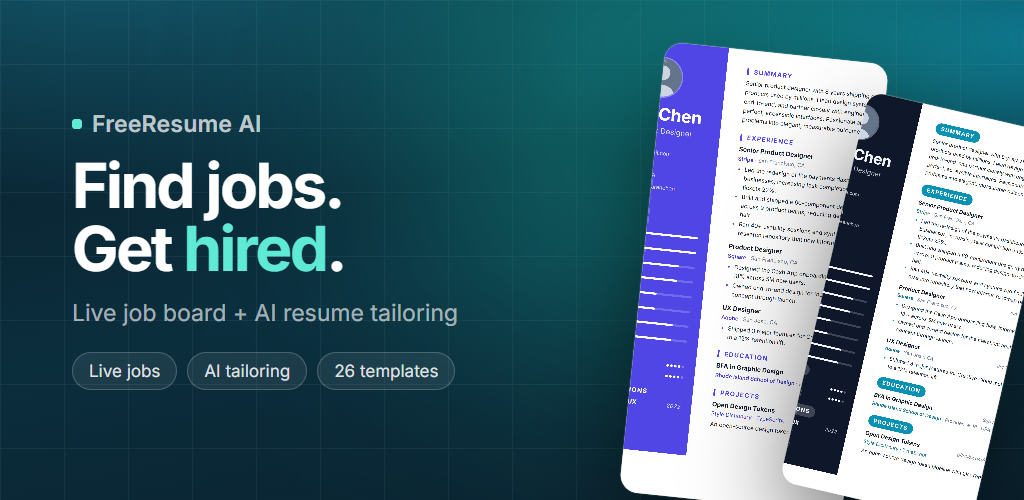
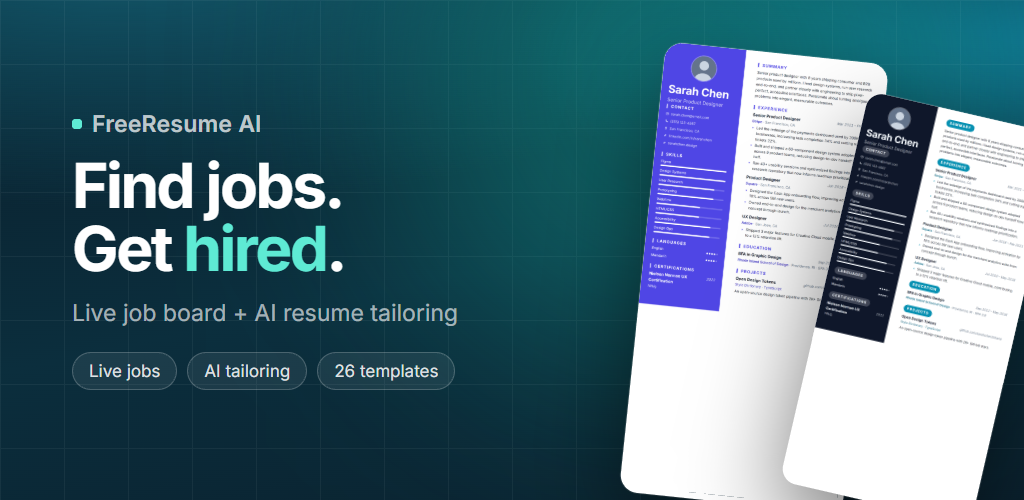
fix(templates,aso): languages collision in narrow columns + store image cropping
Templates: .rb-pairs used a hard `1fr 1fr` grid, which collapses inside any
narrow container — the 36% column of the two-column layouts (creative-bold,
designer-grid) ran the language into its proficiency ("MandarinProfessional").
Switch to repeat(auto-fit, minmax(150px,1fr)) so it drops to one column when
the container is narrow. Fixes every layout at once, superseding the
sidebar-only patch.

Store images:
- Resume renders were forced to fixed heights alongside object-fit:cover, so
  a 0.773-aspect page got scaled up and cropped at the sides — the "zoomed in"
  look. Now width:100% + height:auto, so pages render at true proportions.
- Template frames render as the app's real preview screen (chrome bar + page
  on a grey backdrop). Previously the device notch sat on top of the resume's
  first heading, and a single page left a slab of dead white.
- phone-07 headlined "Cover letters in one tap" but showed a resume; it now
  shows an actual cover letter.

diff --git a/scripts/store-assets.harness.ts b/scripts/store-assets.harness.ts
@@ -72,7 +72,7 @@ h1{font-weight:700;letter-spacing:-2.4px;line-height:1.02}
 .phone{position:absolute;left:50%;transform:translateX(-50%);background:#050D14;
   box-shadow:0 50px 120px rgba(0,0,0,.55), 0 0 0 1px rgba(255,255,255,.09), inset 0 0 0 1px rgba(255,255,255,.05)}
 .screen{width:100%;height:100%;overflow:hidden;position:relative;background:#F7FAFC}
-.screen img{width:100%;display:block;object-fit:cover;object-position:top center}
+.screen img{width:100%;height:auto;display:block}
 .notch{position:absolute;top:22px;left:50%;transform:translateX(-50%);width:20px;height:20px;border-radius:50%;
   background:#050D14;z-index:9;box-shadow:inset 0 0 0 1px rgba(255,255,255,.12)}
 /* soft screen sheen */
@@ -82,7 +82,7 @@ h1{font-weight:700;letter-spacing:-2.4px;line-height:1.02}
 /* floating paper */
 .paper{position:absolute;overflow:hidden;background:#fff;
   box-shadow:0 36px 90px rgba(0,0,0,.5), 0 0 0 1px rgba(255,255,255,.14)}
-.paper img{width:100%;display:block;object-fit:cover;object-position:top center}
+.paper img{width:100%;height:auto;display:block}
 
 .chip{display:inline-flex;align-items:center;gap:8px;border:1px solid rgba(255,255,255,.2);
   background:rgba(255,255,255,.07);border-radius:100px;color:rgba(255,255,255,.85);font-weight:500}
@@ -197,8 +197,65 @@ function tabletFrame(name: string, w: number, h: number, headline: string, sub: 
 
 /* ---- Screen contents (real app UI, drawn at scale) ---------------- */
 
-const screenTemplate = (src: string) => `<img src="${src}" style="height:1392px"/>`;
-const screenTemplateT = (src: string, h: number) => `<img src="${src}" style="height:${h}px"/>`;
+/**
+ * Template screens rendered as the app's real PREVIEW screen: a chrome bar,
+ * a grey backdrop, and the resume as a page card with the next page peeking
+ * below.
+ *
+ * Two reasons this beats dropping the render straight into the device:
+ *  - the notch used to sit ON TOP of the resume's first heading, which looked
+ *    like a rendering bug;
+ *  - a portrait page is ~0.773 aspect and a phone screen is ~0.5, so a single
+ *    page can never fill the screen — a bare image left a slab of dead white.
+ * The page-on-backdrop treatment is both authentic and fills the frame.
+ */
+const screenTemplate = (src: string, scale = 1) => `
+  <div style="height:100%;background:#EDF1F5;display:flex;flex-direction:column">
+    <div style="background:#fff;padding:${74 * scale}px ${24 * scale}px ${16 * scale}px;
+      display:flex;align-items:center;gap:${12 * scale}px;border-bottom:1px solid #E6EDF2;flex:0 0 auto">
+      <span style="font-size:${24 * scale}px;color:#5B7180">‹</span>
+      <span style="font-size:${20 * scale}px;font-weight:700;color:#0B1B24;flex:1">Preview</span>
+      <span style="background:#E8F6F9;color:#0E7490;font-size:${15 * scale}px;font-weight:700;
+        padding:${6 * scale}px ${13 * scale}px;border-radius:${9 * scale}px">ATS 98</span>
+    </div>
+    <div style="flex:1;overflow:hidden;padding:${20 * scale}px ${20 * scale}px 0">
+      <div style="background:#fff;border-radius:${8 * scale}px;overflow:hidden;
+        box-shadow:0 ${10 * scale}px ${26 * scale}px rgba(11,27,36,.16)"><img src="${src}"/></div>
+      <div style="margin-top:${18 * scale}px;text-align:center;font-size:${15 * scale}px;color:#8A9BA8">Page 2</div>
+      <div style="margin-top:${10 * scale}px;background:#fff;border-radius:${8 * scale}px;height:${200 * scale}px;
+        box-shadow:0 ${10 * scale}px ${26 * scale}px rgba(11,27,36,.16)"></div>
+    </div>
+  </div>`;
+const screenTemplateT = (src: string, _h?: number) => screenTemplate(src, 1.45);
+
+/** Cover-letter screen — the frame headlined "Cover letters in one tap" was
+ *  showing a resume, which promised one thing and displayed another. */
+const screenCoverLetter = (scale = 1) => `
+  <div style="height:100%;background:#F7FAFC;padding:${88 * scale}px ${26 * scale}px 0">
+    <div style="background:linear-gradient(135deg,#7C3AED,#0891B2);border-radius:${26 * scale}px;padding:${28 * scale}px">
+      <div style="display:flex;align-items:center;gap:${10 * scale}px">
+        <span style="font-size:${26 * scale}px;font-weight:700;color:#fff">✉ Cover letter</span>
+        <span style="background:rgba(255,255,255,.24);color:#fff;font-size:${14 * scale}px;font-weight:800;
+          padding:${5 * scale}px ${11 * scale}px;border-radius:${9 * scale}px;letter-spacing:.6px">PRO</span>
+      </div>
+      <div style="font-size:${18 * scale}px;color:rgba(255,255,255,.9);margin-top:${8 * scale}px;line-height:1.45">
+        Written from your real experience — for this exact job.</div>
+    </div>
+    <div style="margin-top:${22 * scale}px;background:#fff;border:1px solid #E6EDF2;border-radius:${22 * scale}px;
+      padding:${28 * scale}px;font-size:${19 * scale}px;line-height:1.7;color:#0B1B24">
+      Dear Hiring Manager,<br/><br/>
+      When I saw that Linear is hiring a Senior Product Designer, I recognised the exact problems I've spent
+      the last three years solving. At Stripe I led the redesign of a payments dashboard used by 200,000+
+      businesses — cutting task completion time by 34%.<br/><br/>
+      <span style="color:#94A3B8">Your focus on design systems maps directly to the 60-component library I…</span>
+    </div>
+    <div style="display:flex;gap:${14 * scale}px;margin-top:${24 * scale}px">
+      <div style="flex:1;background:linear-gradient(135deg,#0E7490,#06B6D4);border-radius:${20 * scale}px;
+        padding:${22 * scale}px;text-align:center;font-size:${20 * scale}px;font-weight:700;color:#fff">⧉  Copy</div>
+      <div style="flex:1;background:#fff;border:1px solid #E6EDF2;border-radius:${20 * scale}px;
+        padding:${22 * scale}px;text-align:center;font-size:${20 * scale}px;font-weight:700;color:#0B1B24">↗  Share</div>
+    </div>
+  </div>`;
 
 const screenJobs = (scale = 1) => `
   <div style="height:100%;background:#F7FAFC;padding:${76 * scale}px ${26 * scale}px 0">
@@ -283,8 +340,8 @@ const screenExport = (scale = 1) => `
 /* The set                                                            */
 /* ------------------------------------------------------------------ */
 
-const paper = (src: string, css: string, h: number) =>
-  `<div class="paper" style="${css};border-radius:26px"><img src="${src}" style="height:${h}px"/></div>`;
+const paper = (src: string, css: string, _h?: number) =>
+  `<div class="paper" style="${css};border-radius:26px"><img src="${src}"/></div>`;
 
 const FRAMES: Frame[] = [
   phoneFrame('phone-01', 'Find jobs.<br/>Get <span class="hl">hired</span>.', 'Real openings + an AI resume tailored to each one', screenJobs(), {
@@ -303,7 +360,7 @@ const FRAMES: Frame[] = [
       paper(T.luxe, 'width:290px;height:640px;top:700px;right:8px;transform:rotate(8deg)', 640),
   }),
   phoneFrame('phone-06', 'Built to pass<br/><span class="hl">the robots</span>', 'Every template is scored for applicant tracking systems', screenTemplate(T.atsPro)),
-  phoneFrame('phone-07', 'Cover letters<br/>in <span class="hl">one tap</span>', 'Personal, specific, from your real experience', screenTemplate(T.exec)),
+  phoneFrame('phone-07', 'Cover letters<br/>in <span class="hl">one tap</span>', 'Personal, specific, from your real experience', screenCoverLetter()),
   phoneFrame('phone-08', 'Download.<br/>Apply. <span class="hl">Win</span>.', 'A crisp PDF saved straight to your phone', screenExport()),
 
   // 7-inch tablet (1200×1920)
@@ -348,9 +405,9 @@ const FEATURE = `
     </div>
   </div>
   <div class="paper" style="width:224px;height:452px;right:158px;top:52px;transform:rotate(6deg);border-radius:18px">
-    <img src="${T.aurora}" style="height:452px"/></div>
+    <img src="${T.aurora}"/></div>
   <div class="paper" style="width:196px;height:400px;right:6px;top:108px;transform:rotate(13deg);border-radius:16px">
-    <img src="${T.onyx}" style="height:400px"/></div>
+    <img src="${T.onyx}"/></div>
 </div>`;
 
 /* ------------------------------------------------------------------ */

diff --git a/src/services/pdf/premiumHtmlEngine.ts b/src/services/pdf/premiumHtmlEngine.ts
@@ -1089,8 +1089,13 @@ function baseStyles(t: PremiumTheme, paper: EnginePaperSize, mode: 'pdf' | 'prev
     }
 
     /* Pair lists (Languages) */
-    .rb-pairs { display: grid; grid-template-columns: 1fr 1fr; gap: 4px 16px; }
-    .rb-pair { display: flex; justify-content: space-between; font-size: ${dens.meta}pt; }
+    /* Auto-fit, NOT a hard 1fr 1fr: a fixed two-column grid collapses inside
+       narrow containers (the 36% column of the two-column layouts, and any
+       sidebar), which ran the name into the proficiency — "MandarinProfessional".
+       auto-fit drops to a single column whenever the container is too narrow,
+       so this is correct in every layout. */
+    .rb-pairs { display: grid; grid-template-columns: repeat(auto-fit, minmax(150px, 1fr)); gap: 4px 16px; }
+    .rb-pair { display: flex; justify-content: space-between; gap: 4px 10px; flex-wrap: wrap; font-size: ${dens.meta}pt; }
     .rb-pair-k { color: ${t.text}; font-weight: 600; }
     .rb-pair-v { color: ${t.textMuted}; }
 
